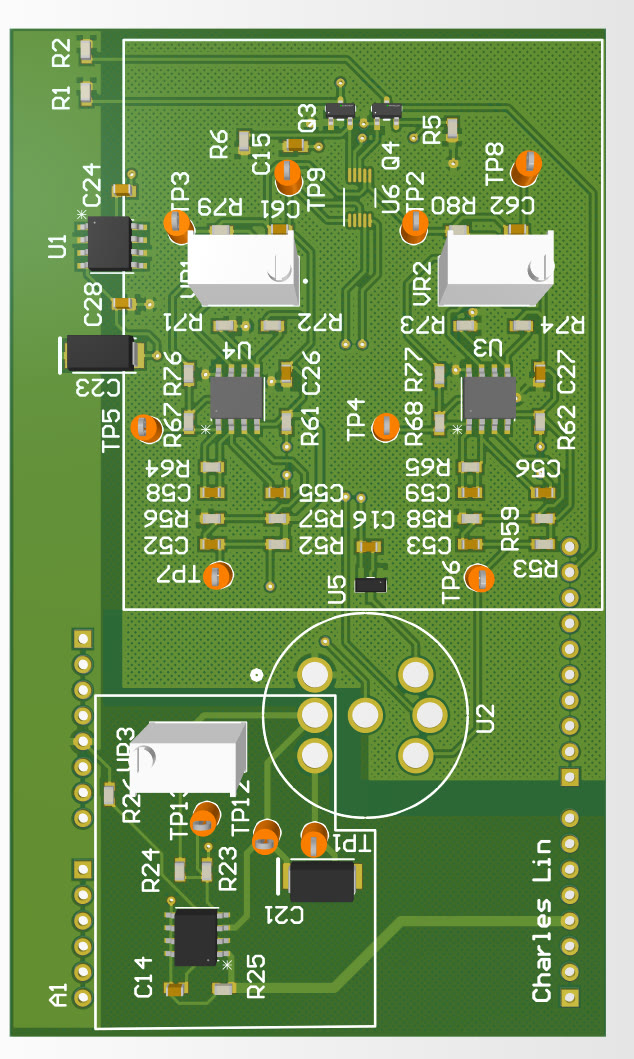
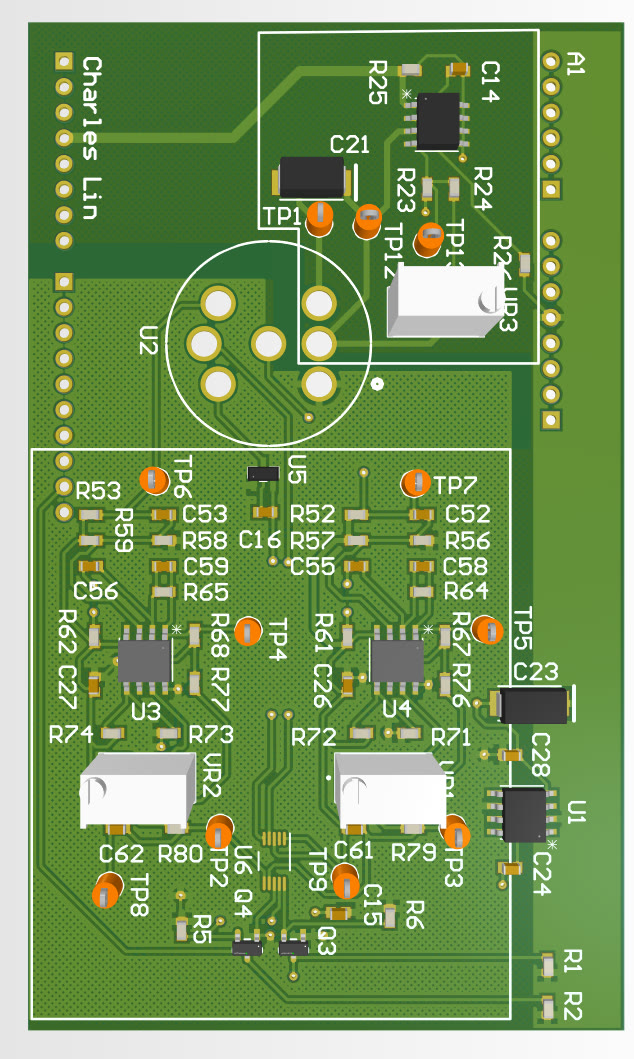
Fix gas-sensor hero framing and overview image rotation
- Hero video: contain-fit anchored right so the whole calibration setup is
  visible instead of a cropped close-up, headline stays clear on the left
- Overview PCB render: rotate the other way (now clockwise)

Claude-Session: https://claude.ai/code/session_01Ry5bLdA1ZzY6zfSUqFNqkZ

diff --git a/gas-sensor.html b/gas-sensor.html
@@ -92,14 +92,18 @@
       align-items: center;
       padding: 5rem 2rem 4rem;
       overflow: hidden;
+      background: var(--blue-dark);
     }
 
+    /* Portrait phone clip — show the whole setup, anchored to the right
+       so the headline stays clear on the left */
     .hero-video {
       position: absolute;
       inset: 0;
       width: 100%;
       height: 100%;
-      object-fit: cover;
+      object-fit: contain;
+      object-position: right center;
       z-index: 0;
     }
 
